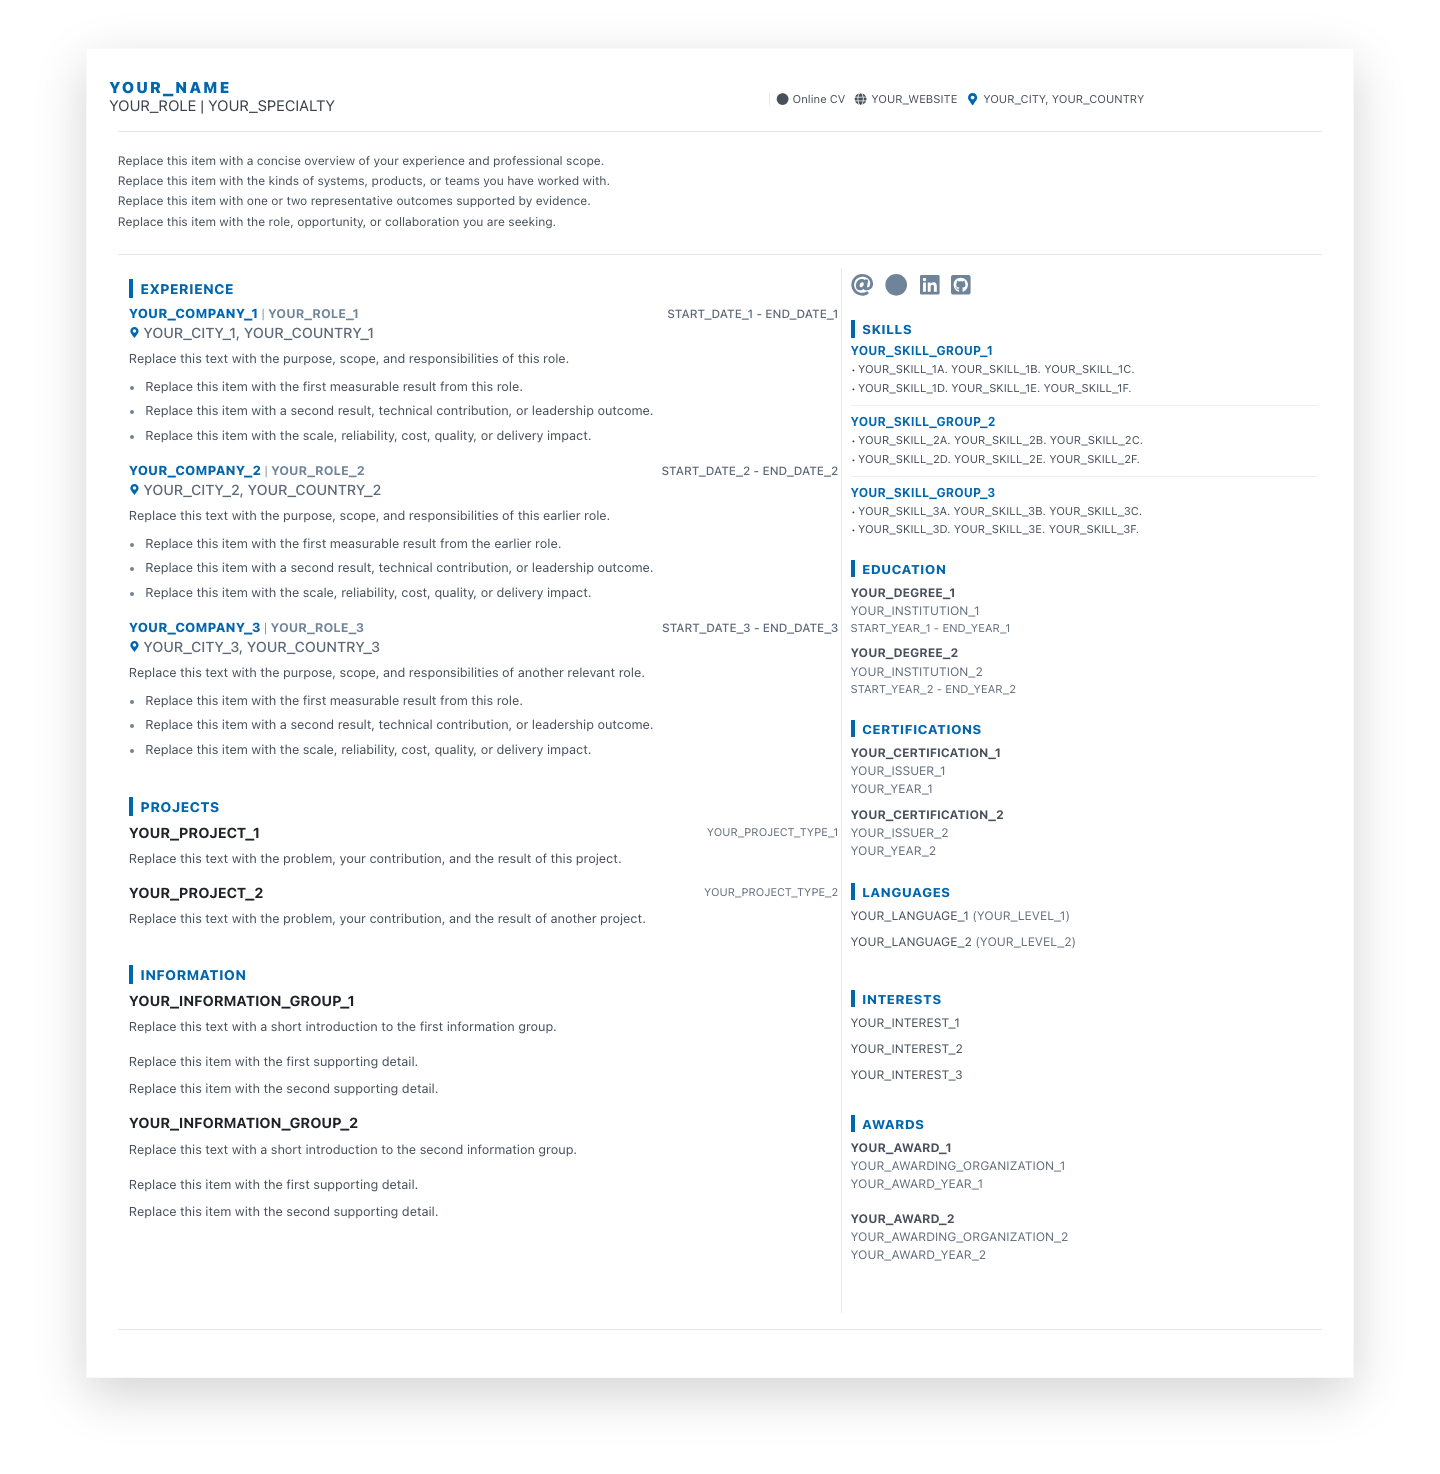
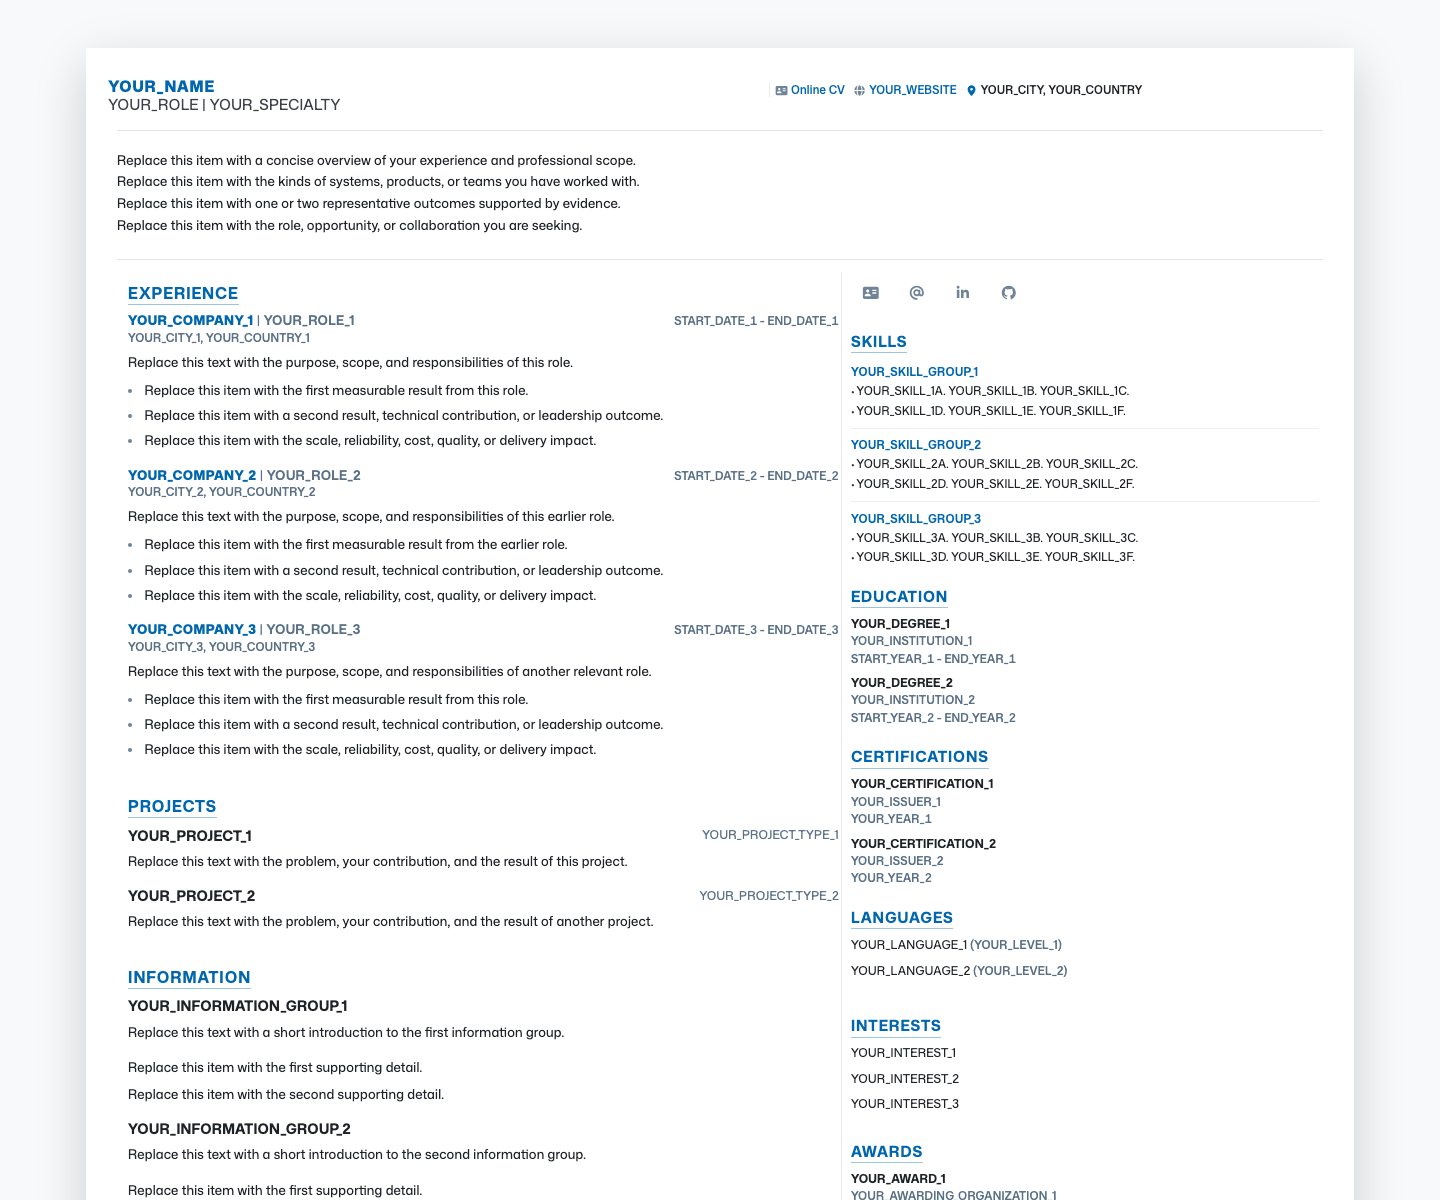
feat: migrate resume links and pin theme

diff --git a/README.md b/README.md
@@ -85,13 +85,13 @@ git submodule update --init -- themes/cvnewtheme
 Replace the placeholder values in `config.toml` and `static/`, then run:
 
 ```bash
-hugo server
+hugo server --panicOnWarning
 ```
 
 Create a production build with:
 
 ```bash
-hugo --gc --minify
+hugo --gc --minify --panicOnWarning
 ```
 
 Keep `params.seo.robots = "noindex, nofollow"` until the content and production URL are ready.
@@ -104,7 +104,7 @@ Netlify accesses the private `cvitals` repository through its GitHub App. It acc
 2. Authorize the Netlify GitHub App to access the private `cvitals` repository, then select that repository.
 3. Set the production branch to `dev`. The committed `netlify.toml` provides:
 
-   - Build command: `hugo --gc --minify --baseURL "$URL"`
+   - Build command: `hugo --gc --minify --panicOnWarning --baseURL "$URL"`
    - Publish directory: `public`
    - Hugo version: `0.164.0`
 
@@ -118,17 +118,32 @@ Never commit an SSH private key, access token, or Netlify deploy key to either r
 
 ## Update the theme
 
-Push theme changes to `cvnewtheme` first. Then update the commit pinned by `cvitals`:
+Fully verify, commit, and push theme changes to `cvnewtheme` first. Record the
+exact 40-character commit SHA that passed the theme and adjacent-consumer
+checks. Pin `cvitals` to that verified commit rather than resolving a moving
+branch tip:
 
 ```bash
 cd /path/to/cvitals
-git submodule update --remote --checkout themes/cvnewtheme
+theme_sha="<verified-40-character-cvnewtheme-commit-sha>"
+git submodule update --init -- themes/cvnewtheme
+git -C themes/cvnewtheme fetch origin "$theme_sha"
+git -C themes/cvnewtheme checkout --detach "$theme_sha"
+test "$(git -C themes/cvnewtheme rev-parse HEAD)" = "$theme_sha"
+
+hugo --renderToMemory \
+  --cacheDir /tmp/cvitals-submodule-hugo-cache \
+  --gc --ignoreCache --minify --panicOnWarning --noBuildLock
+
 git add themes/cvnewtheme
+git diff --cached --submodule=log -- themes/cvnewtheme
 git commit -m "Update cvnewtheme"
 git push origin dev
 ```
 
-Netlify redeploys only after `cvitals` records and pushes the new submodule commit.
+The detached checkout is intentional: the superproject gitlink records the
+verified commit exactly. Netlify redeploys only after `cvitals` records and
+pushes that gitlink.
 
 ## Preview
 
